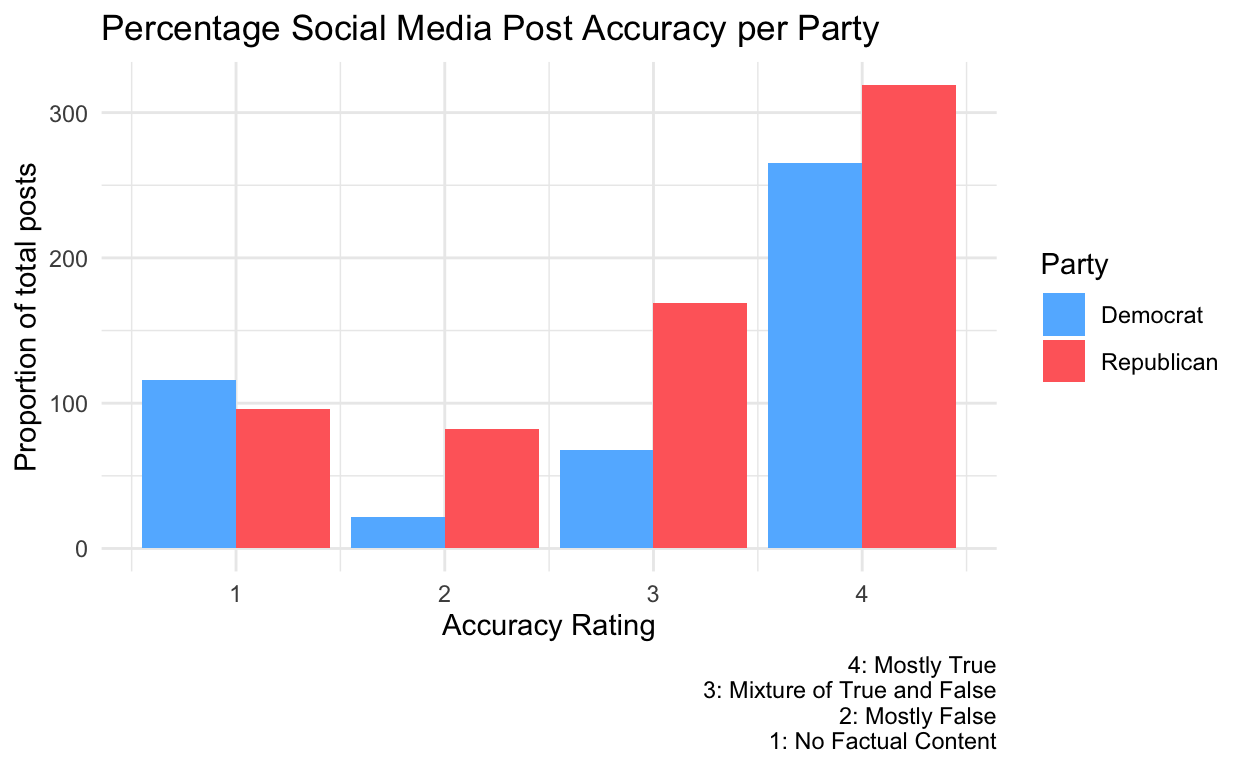
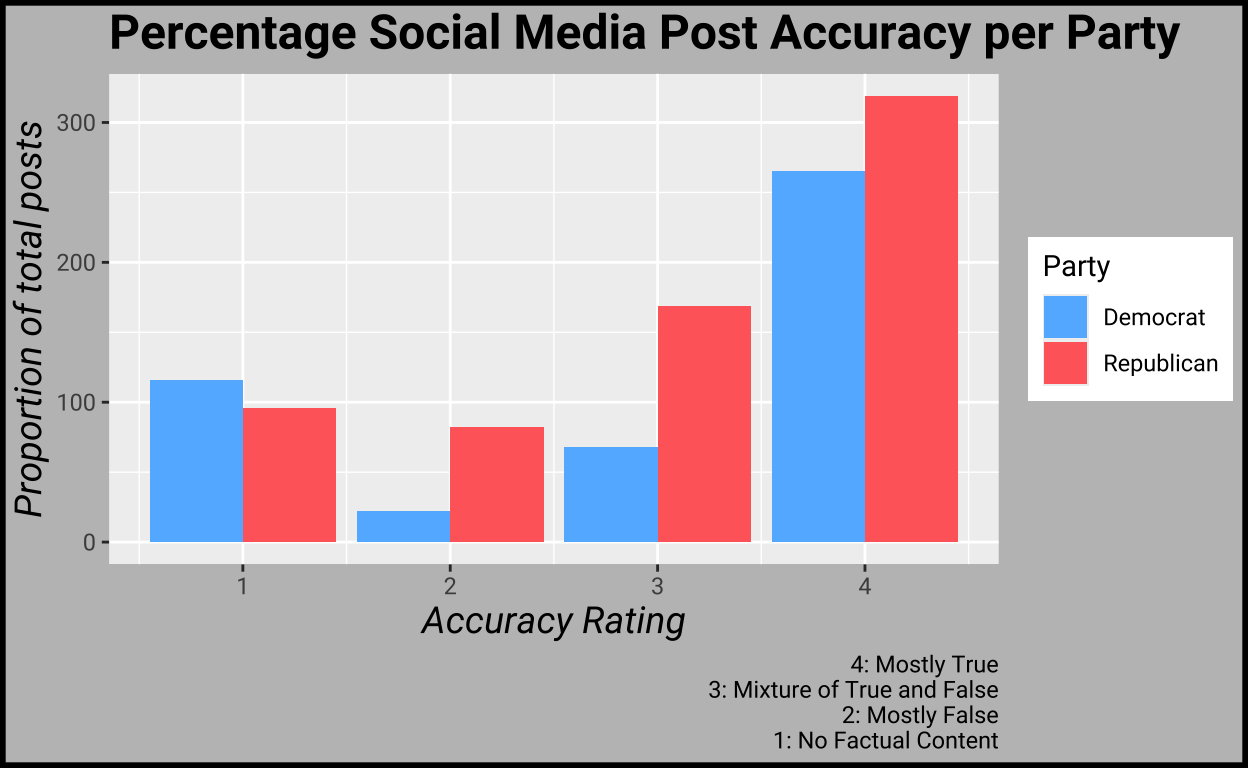
12/11 Final Draft

diff --git a/index.html b/index.html
@@ -88,34 +88,34 @@ code span.wa { color: #5e5e5e; font-style: italic; } /* Warning */
 
 
   <!--radix_placeholder_meta_tags-->
-  <title>PS270 Final Project</title>
+  <title>Misinformation in Social Media in the context of Political Affiliation</title>
 
-  <meta property="description" itemprop="description" content="My final project"/>
+  <meta property="description" itemprop="description" content="PS270 Final Project"/>
 
 
   <meta name="article:author" content="Natalie Thuente"/>
 
   <!--  https://developers.facebook.com/docs/sharing/webmasters#markup -->
-  <meta property="og:title" content="PS270 Final Project"/>
+  <meta property="og:title" content="Misinformation in Social Media in the context of Political Affiliation"/>
   <meta property="og:type" content="article"/>
-  <meta property="og:description" content="My final project"/>
+  <meta property="og:description" content="PS270 Final Project"/>
   <meta property="og:locale" content="en_US"/>
 
   <!--  https://dev.twitter.com/cards/types/summary -->
   <meta property="twitter:card" content="summary"/>
-  <meta property="twitter:title" content="PS270 Final Project"/>
-  <meta property="twitter:description" content="My final project"/>
+  <meta property="twitter:title" content="Misinformation in Social Media in the context of Political Affiliation"/>
+  <meta property="twitter:description" content="PS270 Final Project"/>
 
   <!--/radix_placeholder_meta_tags-->
   <!--radix_placeholder_rmarkdown_metadata-->
 
   <script type="text/json" id="radix-rmarkdown-metadata">
-  {"type":"list","attributes":{"names":{"type":"character","attributes":{},"value":["title","author","description","output"]}},"value":[{"type":"character","attributes":{},"value":["PS270 Final Project"]},{"type":"list","attributes":{},"value":[{"type":"list","attributes":{"names":{"type":"character","attributes":{},"value":["name"]}},"value":[{"type":"character","attributes":{},"value":["Natalie Thuente"]}]}]},{"type":"character","attributes":{},"value":["My final project"]},{"type":"list","attributes":{"names":{"type":"character","attributes":{},"value":["distill::distill_article"]}},"value":[{"type":"list","attributes":{"names":{"type":"character","attributes":{},"value":["self_contained"]}},"value":[{"type":"logical","attributes":{},"value":[false]}]}]}]}
+  {"type":"list","attributes":{"names":{"type":"character","attributes":{},"value":["title","author","description","output"]}},"value":[{"type":"character","attributes":{},"value":["Misinformation in Social Media in the context of Political Affiliation"]},{"type":"list","attributes":{},"value":[{"type":"list","attributes":{"names":{"type":"character","attributes":{},"value":["name"]}},"value":[{"type":"character","attributes":{},"value":["Natalie Thuente"]}]}]},{"type":"character","attributes":{},"value":["PS270 Final Project"]},{"type":"list","attributes":{"names":{"type":"character","attributes":{},"value":["distill::distill_article"]}},"value":[{"type":"list","attributes":{"names":{"type":"character","attributes":{},"value":["self_contained"]}},"value":[{"type":"logical","attributes":{},"value":[false]}]}]}]}
   </script>
   <!--/radix_placeholder_rmarkdown_metadata-->
   
   <script type="text/json" id="radix-resource-manifest">
-  {"type":"character","attributes":{},"value":["facebook-fact-check.csv","index_files/anchor-4.2.2/anchor.min.js","index_files/bowser-1.9.3/bowser.min.js","index_files/distill-2.2.21/template.v2.js","index_files/figure-html5/unnamed-chunk-2-1.png","index_files/figure-html5/unnamed-chunk-3-1.png","index_files/figure-html5/unnamed-chunk-6-1.png","index_files/header-attrs-2.17/header-attrs.js","index_files/header-attrs-2.28/header-attrs.js","index_files/header-attrs-2.29/header-attrs.js","index_files/jquery-3.6.0/jquery-3.6.0.js","index_files/jquery-3.6.0/jquery-3.6.0.min.js","index_files/jquery-3.6.0/jquery-3.6.0.min.map","index_files/popper-2.6.0/popper.min.js","index_files/tippy-6.2.7/tippy-bundle.umd.min.js","index_files/tippy-6.2.7/tippy-light-border.css","index_files/tippy-6.2.7/tippy.css","index_files/tippy-6.2.7/tippy.umd.min.js","index_files/webcomponents-2.0.0/webcomponents.js"]}
+  {"type":"character","attributes":{},"value":["facebook-fact-check.csv","index_files/anchor-4.2.2/anchor.min.js","index_files/bowser-1.9.3/bowser.min.js","index_files/distill-2.2.21/template.v2.js","index_files/figure-html5/unnamed-chunk-2-1.png","index_files/figure-html5/unnamed-chunk-3-1.png","index_files/figure-html5/unnamed-chunk-6-1.png","index_files/figure-html5/unnamed-chunk-7-1.png","index_files/header-attrs-2.17/header-attrs.js","index_files/header-attrs-2.28/header-attrs.js","index_files/header-attrs-2.29/header-attrs.js","index_files/jquery-3.6.0/jquery-3.6.0.js","index_files/jquery-3.6.0/jquery-3.6.0.min.js","index_files/jquery-3.6.0/jquery-3.6.0.min.map","index_files/popper-2.6.0/popper.min.js","index_files/tippy-6.2.7/tippy-bundle.umd.min.js","index_files/tippy-6.2.7/tippy-light-border.css","index_files/tippy-6.2.7/tippy.css","index_files/tippy-6.2.7/tippy.umd.min.js","index_files/webcomponents-2.0.0/webcomponents.js"]}
   </script>
   <!--radix_placeholder_navigation_in_header-->
   <!--/radix_placeholder_navigation_in_header-->
@@ -1518,7 +1518,7 @@ code span.wa { color: #5e5e5e; font-style: italic; } /* Warning */
 <!--radix_placeholder_front_matter-->
 
 <script id="distill-front-matter" type="text/json">
-{"title":"PS270 Final Project","description":"My final project","authors":[{"author":"Natalie Thuente","authorURL":"#","affiliation":"&nbsp;","affiliationURL":"#","orcidID":""}]}
+{"title":"Misinformation in Social Media in the context of Political Affiliation","description":"PS270 Final Project","authors":[{"author":"Natalie Thuente","authorURL":"#","affiliation":"&nbsp;","affiliationURL":"#","orcidID":""}]}
 </script>
 
 <!--/radix_placeholder_front_matter-->
@@ -1528,11 +1528,11 @@ code span.wa { color: #5e5e5e; font-style: italic; } /* Warning */
 <!--/radix_placeholder_site_before_body-->
 
 <div class="d-title">
-<h1>PS270 Final Project</h1>
+<h1>Misinformation in Social Media in the context of Political Affiliation</h1>
 
 <!--radix_placeholder_categories-->
 <!--/radix_placeholder_categories-->
-<p>My final project</p>
+<p>PS270 Final Project</p>
 </div>
 
 <div class="d-byline">
@@ -1545,42 +1545,25 @@ code span.wa { color: #5e5e5e; font-style: italic; } /* Warning */
 <div class="d-article">
 <h1 id="introduction">Introduction</h1>
 <p>Research Question: Is one political party more likely to post inaccurate or misleading data on social media than the other? This research is studying the relationship between political partisanship (Republican or Democrat) and accuracy of social media posts, this is to determine if there is a causal relationship between an individual’s political affiliation and likelihood to spread inaccurate information. The data supporting this research has been obtained from: “<a href="https://www.kaggle.com/datasets/mrisdal/fact-checking-facebook-politics-pages/data" class="uri">https://www.kaggle.com/datasets/mrisdal/fact-checking-facebook-politics-pages/data</a>”.</p>
-<p>My hypothesis is that the Republican party is more likely to curate false social media content. My behavioral explanation of this is rooted in recent political events and the overall tone of hostility since the 2020 election. The Republican party has been outspokenly discontent with the results of the 2020 election, contesting the validity of the election, ultimately culminating in the January 6th insurrection. These feelings of hostility have been expressed through many social media posts, and I believe that these extreme views and an abundance of emotional content could explain a lack of accuracy in Republican social media posts.</p>
+<p>My hypothesis is that the Republican party is more likely to curate false social media content. My behavioral explanation of this is rooted in recent political events and the overall tone of hostility since the 2020 election. The Republican party has been outspokenly discontent with the results of the 2020 election, contesting the validity of the election, ultimately culminating in the January 6th insurrection. These feelings of hostility have been expressed through many social media posts, and I believe that these extreme views and an abundance of emotional content could explain a lack of accuracy in Republican social media posts. This data is important as it could inform social media companies in trends of misinformation across platforms, and they would be more aware when creating policies to filter data and maintain truthful content.</p>
 <div class="layout-chunk" data-layout="l-body">
 <div class="sourceCode">
 <pre class="sourceCode r"><code class="sourceCode r"><span><span class='kw'><a href='https://rdrr.io/r/base/library.html'>library</a></span><span class='op'>(</span><span class='va'><a href='https://tidyverse.tidyverse.org'>tidyverse</a></span><span class='op'>)</span></span>
-<span><span class='va'>facebook</span> <span class='op'>&lt;-</span> <span class='fu'><a href='https://readr.tidyverse.org/reference/read_delim.html'>read_csv</a></span><span class='op'>(</span><span class='st'>"facebook-fact-check.csv"</span><span class='op'>)</span></span>
-<span><span class='va'>facebook</span></span></code></pre>
+<span><span class='kw'><a href='https://rdrr.io/r/base/library.html'>library</a></span><span class='op'>(</span><span class='va'><a href='https://ggplot2.tidyverse.org'>ggplot2</a></span><span class='op'>)</span></span>
+<span><span class='kw'><a href='https://rdrr.io/r/base/library.html'>library</a></span><span class='op'>(</span><span class='va'><a href='https://github.com/yixuan/showtext'>showtext</a></span><span class='op'>)</span></span>
+<span><span class='va'>facebook</span> <span class='op'>&lt;-</span> <span class='fu'><a href='https://readr.tidyverse.org/reference/read_delim.html'>read_csv</a></span><span class='op'>(</span><span class='st'>"facebook-fact-check.csv"</span><span class='op'>)</span></span></code></pre>
 </div>
-<pre><code># A tibble: 2,282 × 12
-   account_id post_id Category   Page      `Post URL` `Date Published`
-        &lt;dbl&gt;   &lt;dbl&gt; &lt;chr&gt;      &lt;chr&gt;     &lt;chr&gt;      &lt;date&gt;          
- 1    1.84e14 1.04e15 mainstream ABC News… https://w… 2016-09-19      
- 2    1.84e14 1.04e15 mainstream ABC News… https://w… 2016-09-19      
- 3    1.84e14 1.04e15 mainstream ABC News… https://w… 2016-09-19      
- 4    1.84e14 1.04e15 mainstream ABC News… https://w… 2016-09-19      
- 5    1.84e14 1.04e15 mainstream ABC News… https://w… 2016-09-19      
- 6    1.84e14 1.04e15 mainstream ABC News… https://w… 2016-09-19      
- 7    1.84e14 1.04e15 mainstream ABC News… https://w… 2016-09-19      
- 8    1.84e14 1.04e15 mainstream ABC News… https://w… 2016-09-19      
- 9    1.84e14 1.04e15 mainstream ABC News… https://w… 2016-09-19      
-10    1.84e14 1.04e15 mainstream ABC News… https://w… 2016-09-19      
-# ℹ 2,272 more rows
-# ℹ 6 more variables: `Post Type` &lt;chr&gt;, Rating &lt;chr&gt;, Debate &lt;chr&gt;,
-#   share_count &lt;dbl&gt;, reaction_count &lt;dbl&gt;, comment_count &lt;dbl&gt;</code></pre>
 </div>
-<h1 id="data-describe-data-source-key-dependent-and-independent-variables-how-they-are-measured-plot-summarizing-dependent-variable">Data: describe data source, key dependent and independent variables, how they are measured, plot summarizing dependent variable</h1>
+<h1 id="data">Data</h1>
 <p>My research was a cross-sectional design with data from: “<a href="https://www.kaggle.com/datasets/mrisdal/fact-checking-facebook-politics-pages/data" class="uri">https://www.kaggle.com/datasets/mrisdal/fact-checking-facebook-politics-pages/data</a>”. The explanatory variable of interest is the partisan affiliation of the social media post, which was determined by the partisan identity of the account creating the post. The response variable was the accuracy of post. This was measured by raters at Buzzfeed. Each rater was given a rotating selection of accounts from different parties on each day, with each rater being given the same criteria for how to review posts.</p>
 <p>Truth Categories:</p>
-<ol start="4" type="1">
-<li><p>Mostly True: The post and any related link or image are based on factual information and portray it accurately. This lets them interpret the event/info in their own way, so long as they do not misrepresent events, numbers, quotes, reactions, etc., or make information up. This rating does not allow for unsupported speculation or claims.</p></li>
-<li><p>Mixture of True and False: Some elements of the information are factually accurate, but some elements or claims are not. This rating should be used when speculation or unfounded claims are mixed with real events, numbers, quotes, etc., or when the headline of the link being shared makes a false claim but the text of the story is largely accurate. It should also only be used when the unsupported or false information is roughly equal to the accurate information in the post or link. Finally, use this rating for news articles that are based on unconfirmed information.</p></li>
-<li><p>Mostly False: Most or all of the information in the post or in the link being shared is inaccurate. This should also be used when the central claim being made is false.</p></li>
-<li><p>No Factual Content: This rating is used for posts that are pure opinion, comics, satire, or any other posts that do not make a factual claim. This is also the category to use for posts that are of the “Like this if you think…” variety.</p></li>
-</ol>
+<p>4: Mostly True: The post and any related link or image are based on factual information and portray it accurately. This lets them interpret the event/info in their own way, so long as they do not misrepresent events, numbers, quotes, reactions, etc., or make information up. This rating does not allow for unsupported speculation or claims.</p>
+<p>3: Mixture of True and False: Some elements of the information are factually accurate, but some elements or claims are not. This rating should be used when speculation or unfounded claims are mixed with real events, numbers, quotes, etc., or when the headline of the link being shared makes a false claim but the text of the story is largely accurate. It should also only be used when the unsupported or false information is roughly equal to the accurate information in the post or link. Finally, use this rating for news articles that are based on unconfirmed information.</p>
+<p>2: Mostly False: Most or all of the information in the post or in the link being shared is inaccurate. This should also be used when the central claim being made is false.</p>
+<p>1: No Factual Content: This rating is used for posts that are pure opinion, comics, satire, or any other posts that do not make a factual claim. This is also the category to use for posts that are of the “Like this if you think…” variety.</p>
 <p>To disprove my hypothesis, the percentage of inaccurate posts created by Democratic accounts would have to be greater than that of Republican accounts</p>
-<p>This bar plot shows the relationship between Party and accuracy of social media posts. For each accuracy category (4 being the most accurate, 1 being the least), the plot displays the percentage of total posts that fall under this category for each party.</p>
-<p>Count the percentage of total posts that fall under each accuracy classification for each party.</p>
+<p>This bar plot shows the relationship between party and accuracy of social media posts. For each accuracy category (4 being the most accurate, 1 being the least), the plot displays the percentage of total posts that fall under this category for each party.</p>
+<p>Creating a table with the distribution of total posts that fall under each accuracy classification for each party:</p>
 <div class="layout-chunk" data-layout="l-body">
 <div class="sourceCode">
 <pre class="sourceCode r"><code class="sourceCode r"><span><span class='va'>parties</span> <span class='op'>&lt;-</span> <span class='va'>facebook</span> <span class='op'>|&gt;</span></span>
@@ -1594,25 +1577,51 @@ code span.wa { color: #5e5e5e; font-style: italic; } /* Warning */
 <span><span class='va'>party_accuracy</span> <span class='op'>&lt;-</span> <span class='va'>parties</span> <span class='op'>|&gt;</span></span>
 <span>  <span class='fu'><a href='https://dplyr.tidyverse.org/reference/group_by.html'>group_by</a></span><span class='op'>(</span><span class='va'>Party</span>, <span class='va'>accuracy_rating</span><span class='op'>)</span>  <span class='op'>|&gt;</span></span>
 <span>  <span class='fu'><a href='https://dplyr.tidyverse.org/reference/summarise.html'>summarize</a></span><span class='op'>(</span>n <span class='op'>=</span> <span class='fu'><a href='https://dplyr.tidyverse.org/reference/context.html'>n</a></span><span class='op'>(</span><span class='op'>)</span><span class='op'>)</span> <span class='op'>|&gt;</span> </span>
-<span>  <span class='fu'><a href='https://dplyr.tidyverse.org/reference/mutate.html'>mutate</a></span><span class='op'>(</span>p <span class='op'>=</span> <span class='va'>n</span> <span class='op'>/</span> <span class='fu'><a href='https://rdrr.io/r/base/sum.html'>sum</a></span><span class='op'>(</span><span class='va'>n</span><span class='op'>)</span><span class='op'>)</span></span>
+<span>  <span class='fu'><a href='https://dplyr.tidyverse.org/reference/mutate.html'>mutate</a></span><span class='op'>(</span>p <span class='op'>=</span> <span class='va'>n</span> <span class='op'>/</span> <span class='fu'><a href='https://rdrr.io/r/base/sum.html'>sum</a></span><span class='op'>(</span><span class='va'>n</span><span class='op'>)</span><span class='op'>)</span> </span>
+<span><span class='va'>party_accuracy_table</span> <span class='op'>&lt;-</span> <span class='va'>party_accuracy</span> <span class='op'>|&gt;</span></span>
+<span>  <span class='fu'><a href='https://dplyr.tidyverse.org/reference/select.html'>select</a></span><span class='op'>(</span><span class='va'>p</span>, <span class='va'>accuracy_rating</span><span class='op'>)</span> <span class='op'>|&gt;</span></span>
+<span>  <span class='fu'><a href='https://tidyr.tidyverse.org/reference/pivot_wider.html'>pivot_wider</a></span><span class='op'>(</span>names_from <span class='op'>=</span> <span class='va'>accuracy_rating</span>, values_from <span class='op'>=</span> <span class='va'>p</span><span class='op'>)</span></span>
 <span>  <span class='co'># mutate(n = if_else(Party == "Democrat", n/471, n/666))</span></span>
-<span><span class='va'>party_accuracy</span></span></code></pre>
+<span><span class='fu'>knitr</span><span class='fu'>::</span><span class='fu'><a href='https://rdrr.io/pkg/knitr/man/kable.html'>kable</a></span><span class='op'>(</span><span class='va'>party_accuracy_table</span>, digits <span class='op'>=</span> <span class='fl'>2</span><span class='op'>)</span></span></code></pre>
 </div>
-<pre><code># A tibble: 8 × 4
-# Groups:   Party [2]
-  Party      accuracy_rating     n      p
-  &lt;chr&gt;                &lt;dbl&gt; &lt;int&gt;  &lt;dbl&gt;
-1 Democrat                 1   116 0.246 
-2 Democrat                 2    22 0.0467
-3 Democrat                 3    68 0.144 
-4 Democrat                 4   265 0.563 
-5 Republican               1    96 0.144 
-6 Republican               2    82 0.123 
-7 Republican               3   169 0.254 
-8 Republican               4   319 0.479 </code></pre>
+<table>
+<thead>
+<tr class="header">
+<th style="text-align: left;">Party</th>
+<th style="text-align: right;">1</th>
+<th style="text-align: right;">2</th>
+<th style="text-align: right;">3</th>
+<th style="text-align: right;">4</th>
+</tr>
+</thead>
+<tbody>
+<tr class="odd">
+<td style="text-align: left;">Democrat</td>
+<td style="text-align: right;">0.25</td>
+<td style="text-align: right;">0.05</td>
+<td style="text-align: right;">0.14</td>
+<td style="text-align: right;">0.56</td>
+</tr>
+<tr class="even">
+<td style="text-align: left;">Republican</td>
+<td style="text-align: right;">0.14</td>
+<td style="text-align: right;">0.12</td>
+<td style="text-align: right;">0.25</td>
+<td style="text-align: right;">0.48</td>
+</tr>
+</tbody>
+</table>
 </div>
-<p>Now that the data is organized by party and accuracy rating, this is a bar graph comparing the results.</p>
+<p>Now that the data is organized by party and accuracy rating, this visualization can be used to compare the results.</p>
+<p>Creating a barplot with the spread of accuracy ratings for each party:</p>
 <div class="layout-chunk" data-layout="l-body">
+<div class="sourceCode">
+<pre class="sourceCode r"><code class="sourceCode r"><span><span class='fu'><a href='https://rdrr.io/pkg/showtext/man/showtext_auto.html'>showtext_auto</a></span><span class='op'>(</span><span class='op'>)</span></span>
+<span><span class='fu'><a href='https://rdrr.io/pkg/sysfonts/man/font_add_google.html'>font_add_google</a></span><span class='op'>(</span><span class='st'>"Roboto"</span>, <span class='st'>"roboto"</span><span class='op'>)</span></span>
+<span><span class='fu'><a href='https://rdrr.io/pkg/sysfonts/man/font_families.html'>font_families</a></span><span class='op'>(</span><span class='op'>)</span></span></code></pre>
+</div>
+<pre><code>[1] &quot;sans&quot;         &quot;serif&quot;        &quot;mono&quot;         &quot;wqy-microhei&quot;
+[5] &quot;roboto&quot;      </code></pre>
 <div class="sourceCode">
 <pre class="sourceCode r"><code class="sourceCode r"><span><span class='va'>accuracy_plot</span> <span class='op'>&lt;-</span> <span class='va'>party_accuracy</span> <span class='op'>|&gt;</span></span>
 <span>  <span class='fu'><a href='https://ggplot2.tidyverse.org/reference/ggplot.html'>ggplot</a></span><span class='op'>(</span><span class='fu'><a href='https://ggplot2.tidyverse.org/reference/aes.html'>aes</a></span><span class='op'>(</span>x <span class='op'>=</span> <span class='va'>accuracy_rating</span>, y <span class='op'>=</span> <span class='va'>n</span><span class='op'>)</span><span class='op'>)</span> <span class='op'>+</span></span>
@@ -1625,20 +1634,26 @@ code span.wa { color: #5e5e5e; font-style: italic; } /* Warning */
 <span><span class='st'>       3: Mixture of True and False</span></span>
 <span><span class='st'>       2: Mostly False</span></span>
 <span><span class='st'>       1: No Factual Content"</span><span class='op'>)</span> <span class='op'>+</span></span>
-<span>  <span class='fu'><a href='https://ggplot2.tidyverse.org/reference/ggtheme.html'>theme_minimal</a></span><span class='op'>(</span><span class='op'>)</span></span>
+<span>  <span class='fu'><a href='https://ggplot2.tidyverse.org/reference/theme.html'>theme</a></span><span class='op'>(</span></span>
+<span>    text <span class='op'>=</span> <span class='fu'><a href='https://ggplot2.tidyverse.org/reference/element.html'>element_text</a></span><span class='op'>(</span>family <span class='op'>=</span> <span class='st'>"roboto"</span><span class='op'>)</span>,</span>
+<span>    plot.title <span class='op'>=</span> <span class='fu'><a href='https://ggplot2.tidyverse.org/reference/element.html'>element_text</a></span><span class='op'>(</span>size <span class='op'>=</span> <span class='fl'>18</span>, face <span class='op'>=</span> <span class='st'>"bold"</span><span class='op'>)</span>, </span>
+<span>    axis.title.x <span class='op'>=</span> <span class='fu'><a href='https://ggplot2.tidyverse.org/reference/element.html'>element_text</a></span><span class='op'>(</span>size <span class='op'>=</span> <span class='fl'>14</span>, face <span class='op'>=</span> <span class='st'>"italic"</span><span class='op'>)</span>,  </span>
+<span>    axis.title.y <span class='op'>=</span> <span class='fu'><a href='https://ggplot2.tidyverse.org/reference/element.html'>element_text</a></span><span class='op'>(</span>size <span class='op'>=</span> <span class='fl'>14</span>, face <span class='op'>=</span> <span class='st'>"italic"</span><span class='op'>)</span>,</span>
+<span>    plot.background <span class='op'>=</span> <span class='fu'><a href='https://ggplot2.tidyverse.org/reference/element.html'>element_rect</a></span><span class='op'>(</span>fill <span class='op'>=</span> <span class='st'>"grey75"</span>, color <span class='op'>=</span> <span class='st'>"black"</span>, size <span class='op'>=</span> <span class='fl'>2</span><span class='op'>)</span>,</span>
+<span>    panel.background <span class='op'>=</span> <span class='fu'><a href='https://ggplot2.tidyverse.org/reference/element.html'>element_rect</a></span><span class='op'>(</span>fill <span class='op'>=</span> <span class='st'>"grey94"</span>, color <span class='op'>=</span> <span class='cn'>NA</span><span class='op'>)</span><span class='op'>)</span> </span>
 <span><span class='va'>accuracy_plot</span></span></code></pre>
 </div>
 <p><img src="index_files/figure-html5/unnamed-chunk-3-1.png" width="624" /></p>
 </div>
-<h1 id="results-scatterplot-barplot-or-boxplot-with-regression-and-paragraph-summarizing-results">Results: scatterplot, barplot or boxplot with regression and paragraph summarizing results</h1>
-<p>To better visualize the results, I have added a linear regression of the data by creating a binary variable to represent Party. Because I have set the Democrat value to ‘1’ and the Republican value to ‘0’, a positive value would indicate higher average ratings for the Republican Party, and a negative value would indicate the opposite, higher average ratings for the Democratic Party.</p>
-<p>Table summarizing the Average Accuracy Rating for each Party.</p>
+<h1 id="results">Results</h1>
+<p>To better visualize the results, I have added a linear regression of the data by creating a binary variable to represent Party. Because I have set the Democrat value to ‘1’ and the Republican value to ‘0’, a positive value would indicate higher average ratings for the Republican party, and a negative value would indicate the opposite, higher average ratings for the Democratic party.</p>
+<p>Table summarizing the average accuracy rating for each party:</p>
 <div class="layout-chunk" data-layout="l-body">
 <div class="sourceCode">
 <pre class="sourceCode r"><code class="sourceCode r"><span><span class='va'>analysis</span> <span class='op'>&lt;-</span> <span class='va'>parties</span> <span class='op'>|&gt;</span></span>
 <span>  <span class='fu'><a href='https://dplyr.tidyverse.org/reference/group_by.html'>group_by</a></span><span class='op'>(</span><span class='va'>Party</span><span class='op'>)</span> <span class='op'>|&gt;</span></span>
 <span>    <span class='fu'><a href='https://dplyr.tidyverse.org/reference/summarise.html'>summarize</a></span><span class='op'>(</span><span class='st'>"Average Accuracy Rating"</span> <span class='op'>=</span> <span class='fu'><a href='https://rdrr.io/r/base/mean.html'>mean</a></span><span class='op'>(</span><span class='va'>accuracy_rating</span><span class='op'>)</span><span class='op'>)</span></span>
-<span><span class='fu'>knitr</span><span class='fu'>::</span><span class='fu'><a href='https://rdrr.io/pkg/knitr/man/kable.html'>kable</a></span><span class='op'>(</span><span class='va'>analysis</span><span class='op'>)</span></span></code></pre>
+<span><span class='fu'>knitr</span><span class='fu'>::</span><span class='fu'><a href='https://rdrr.io/pkg/knitr/man/kable.html'>kable</a></span><span class='op'>(</span><span class='va'>analysis</span>, digits <span class='op'>=</span> <span class='fl'>3</span><span class='op'>)</span></span></code></pre>
 </div>
 <table>
 <thead>
@@ -1650,21 +1665,20 @@ code span.wa { color: #5e5e5e; font-style: italic; } /* Warning */
 <tbody>
 <tr class="odd">
 <td style="text-align: left;">Democrat</td>
-<td style="text-align: right;">3.023355</td>
+<td style="text-align: right;">3.023</td>
 </tr>
 <tr class="even">
 <td style="text-align: left;">Republican</td>
-<td style="text-align: right;">3.067568</td>
+<td style="text-align: right;">3.068</td>
 </tr>
 </tbody>
 </table>
 </div>
 <p>Linear Regression analyzing the relationship between Partisan Affiliation and Accuracy of social media posts, holding all other variables constant.</p>
+<p>Creating the linear regression:</p>
 <div class="layout-chunk" data-layout="l-body">
 <div class="sourceCode">
-<pre class="sourceCode r"><code class="sourceCode r"><span><span class='va'>parties</span> <span class='op'>&lt;-</span> <span class='va'>parties</span> <span class='op'>|&gt;</span></span>
-<span>  <span class='fu'><a href='https://dplyr.tidyverse.org/reference/mutate.html'>mutate</a></span><span class='op'>(</span>PartyBinary <span class='op'>=</span> <span class='fu'><a href='https://dplyr.tidyverse.org/reference/if_else.html'>if_else</a></span><span class='op'>(</span><span class='va'>Party</span> <span class='op'>==</span> <span class='st'>"Republican"</span>, <span class='fl'>1</span>, <span class='fl'>0</span><span class='op'>)</span><span class='op'>)</span></span>
-<span><span class='va'>model</span> <span class='op'>&lt;-</span> <span class='fu'><a href='https://rdrr.io/r/stats/lm.html'>lm</a></span><span class='op'>(</span><span class='va'>accuracy_rating</span> <span class='op'>~</span> <span class='va'>Party</span>, data <span class='op'>=</span> <span class='va'>parties</span><span class='op'>)</span></span>
+<pre class="sourceCode r"><code class="sourceCode r"><span><span class='va'>model</span> <span class='op'>&lt;-</span> <span class='fu'><a href='https://rdrr.io/r/stats/lm.html'>lm</a></span><span class='op'>(</span><span class='va'>accuracy_rating</span> <span class='op'>~</span> <span class='va'>Party</span>, data <span class='op'>=</span> <span class='va'>parties</span><span class='op'>)</span></span>
 <span><span class='fu'><a href='https://rdrr.io/r/base/summary.html'>summary</a></span><span class='op'>(</span><span class='va'>model</span><span class='op'>)</span></span></code></pre>
 </div>
 <pre><code>
@@ -1686,23 +1700,52 @@ Residual standard error: 1.162 on 1135 degrees of freedom
 Multiple R-squared:  0.0003517, Adjusted R-squared:  -0.000529 
 F-statistic: 0.3994 on 1 and 1135 DF,  p-value: 0.5275</code></pre>
 </div>
-<p>The results of the linear regression, specifically the Intercept, indicate the average accuracy rating for the Democratic party is 3.023, as the Democratic party was assigned the value ‘0’. The PartyBinary coefficient of 0.04421 indicates posts from the Republican party had a higher Average Social Media Accuracy Ranking than posts from the Democratic party.</p>
-<p>Observing the resulting p-value of 0.5275, in the context of <span class="math inline">\(\alpha\)</span> value of 0.05, we are unable to reject the null hypothesis and determine a causal relationship between Party Affiliation and Social Media post Accuracy, finding the Party Affiliation to be not statistically significant in predicting Social Media post Accuracy.</p>
+<p>Creating a visualization of the values returned from our regression:</p>
+<div class="layout-chunk" data-layout="l-body">
+<div class="sourceCode">
+<pre class="sourceCode r"><code class="sourceCode r"><span><span class='va'>regression</span> <span class='op'>&lt;-</span> <span class='fu'>broom</span><span class='fu'>::</span><span class='fu'><a href='https://generics.r-lib.org/reference/tidy.html'>tidy</a></span><span class='op'>(</span><span class='va'>model</span><span class='op'>)</span></span>
+<span><span class='fu'><a href='https://ggplot2.tidyverse.org/reference/ggplot.html'>ggplot</a></span><span class='op'>(</span><span class='va'>regression</span>, <span class='fu'><a href='https://ggplot2.tidyverse.org/reference/aes.html'>aes</a></span><span class='op'>(</span>x <span class='op'>=</span> <span class='va'>term</span>, y <span class='op'>=</span> <span class='va'>estimate</span><span class='op'>)</span><span class='op'>)</span> <span class='op'>+</span></span>
+<span>  <span class='fu'><a href='https://ggplot2.tidyverse.org/reference/geom_point.html'>geom_point</a></span><span class='op'>(</span><span class='op'>)</span> <span class='op'>+</span></span>
+<span>  <span class='fu'><a href='https://ggplot2.tidyverse.org/reference/geom_linerange.html'>geom_errorbar</a></span><span class='op'>(</span><span class='fu'><a href='https://ggplot2.tidyverse.org/reference/aes.html'>aes</a></span><span class='op'>(</span>ymin <span class='op'>=</span> <span class='va'>estimate</span> <span class='op'>-</span> <span class='fl'>1.96</span> <span class='op'>*</span> <span class='va'>std.error</span>, ymax <span class='op'>=</span> <span class='va'>estimate</span> <span class='op'>+</span> <span class='fl'>1.96</span> <span class='op'>*</span> <span class='va'>std.error</span><span class='op'>)</span>, width <span class='op'>=</span> <span class='fl'>0.2</span><span class='op'>)</span> <span class='op'>+</span></span>
+<span>  <span class='fu'><a href='https://ggplot2.tidyverse.org/reference/labs.html'>labs</a></span><span class='op'>(</span>title <span class='op'>=</span> <span class='st'>"Regression Coefficients"</span>, x <span class='op'>=</span> <span class='st'>"Predictors"</span>, y <span class='op'>=</span> <span class='st'>"Estimated Coefficients"</span><span class='op'>)</span> <span class='op'>+</span></span>
+<span>  <span class='fu'><a href='https://ggplot2.tidyverse.org/reference/theme.html'>theme</a></span><span class='op'>(</span></span>
+<span>    text <span class='op'>=</span> <span class='fu'><a href='https://ggplot2.tidyverse.org/reference/element.html'>element_text</a></span><span class='op'>(</span>family <span class='op'>=</span> <span class='st'>"roboto"</span><span class='op'>)</span>,</span>
+<span>    plot.title <span class='op'>=</span> <span class='fu'><a href='https://ggplot2.tidyverse.org/reference/element.html'>element_text</a></span><span class='op'>(</span>size <span class='op'>=</span> <span class='fl'>18</span>, face <span class='op'>=</span> <span class='st'>"bold"</span><span class='op'>)</span>, </span>
+<span>    axis.title.x <span class='op'>=</span> <span class='fu'><a href='https://ggplot2.tidyverse.org/reference/element.html'>element_text</a></span><span class='op'>(</span>size <span class='op'>=</span> <span class='fl'>14</span>, face <span class='op'>=</span> <span class='st'>"italic"</span><span class='op'>)</span>,  </span>
+<span>    axis.title.y <span class='op'>=</span> <span class='fu'><a href='https://ggplot2.tidyverse.org/reference/element.html'>element_text</a></span><span class='op'>(</span>size <span class='op'>=</span> <span class='fl'>14</span>, face <span class='op'>=</span> <span class='st'>"italic"</span><span class='op'>)</span>,</span>
+<span>    plot.background <span class='op'>=</span> <span class='fu'><a href='https://ggplot2.tidyverse.org/reference/element.html'>element_rect</a></span><span class='op'>(</span>fill <span class='op'>=</span> <span class='st'>"grey75"</span>, color <span class='op'>=</span> <span class='st'>"black"</span>, size <span class='op'>=</span> <span class='fl'>2</span><span class='op'>)</span>,</span>
+<span>    panel.background <span class='op'>=</span> <span class='fu'><a href='https://ggplot2.tidyverse.org/reference/element.html'>element_rect</a></span><span class='op'>(</span>fill <span class='op'>=</span> <span class='st'>"grey94"</span>, color <span class='op'>=</span> <span class='cn'>NA</span><span class='op'>)</span><span class='op'>)</span> </span></code></pre>
+</div>
+<p><img src="index_files/figure-html5/unnamed-chunk-6-1.png" width="624" /></p>
+</div>
+<p>The results of the linear regression, specifically the Intercept, indicate the average accuracy rating for the Democratic party is 3.023. The PartyRepublican coefficient of 0.04421 indicates posts from the Republican party had a higher Average Social Media Accuracy Ranking than posts from the Democratic party.</p>
+<p>Observing the resulting p-value of 0.5275, in the context of <span class="math inline">\(\alpha\)</span> value of 0.05, we are unable to reject the null hypothesis and determine a causal relationship between party affiliation and social media post accuracy, finding the party affiliation to be not statistically significant in predicting Social Media post Accuracy.</p>
+<p>Creating a Boxplot to visualize the spread of accuracy for each party:</p>
 <div class="layout-chunk" data-layout="l-body">
 <div class="sourceCode">
 <pre class="sourceCode r"><code class="sourceCode r"><span><span class='va'>box_plot</span> <span class='op'>&lt;-</span> <span class='va'>parties</span> <span class='op'>|&gt;</span></span>
 <span>  <span class='fu'><a href='https://ggplot2.tidyverse.org/reference/ggplot.html'>ggplot</a></span><span class='op'>(</span><span class='fu'><a href='https://ggplot2.tidyverse.org/reference/aes.html'>aes</a></span><span class='op'>(</span>x <span class='op'>=</span> <span class='va'>Party</span>, y <span class='op'>=</span> <span class='va'>accuracy_rating</span><span class='op'>)</span><span class='op'>)</span> <span class='op'>+</span></span>
 <span>  <span class='fu'><a href='https://ggplot2.tidyverse.org/reference/geom_boxplot.html'>geom_boxplot</a></span><span class='op'>(</span><span class='fu'><a href='https://ggplot2.tidyverse.org/reference/aes.html'>aes</a></span><span class='op'>(</span>fill <span class='op'>=</span> <span class='va'>Party</span><span class='op'>)</span><span class='op'>)</span> <span class='op'>+</span></span>
+<span>  <span class='fu'><a href='https://ggplot2.tidyverse.org/reference/stat_summary.html'>stat_summary</a></span><span class='op'>(</span>fun <span class='op'>=</span> <span class='va'>mean</span>, geom <span class='op'>=</span> <span class='st'>"point"</span>, shape <span class='op'>=</span> <span class='fl'>20</span>, size <span class='op'>=</span> <span class='fl'>3</span>, color <span class='op'>=</span> <span class='st'>"purple4"</span><span class='op'>)</span> <span class='op'>+</span></span>
 <span>  <span class='fu'><a href='https://ggplot2.tidyverse.org/reference/scale_manual.html'>scale_fill_manual</a></span><span class='op'>(</span>values <span class='op'>=</span> <span class='fu'><a href='https://rdrr.io/r/base/c.html'>c</a></span><span class='op'>(</span><span class='st'>"Democrat"</span> <span class='op'>=</span> <span class='st'>"steelblue1"</span>, <span class='st'>"Republican"</span> <span class='op'>=</span> <span class='st'>"indianred1"</span><span class='op'>)</span><span class='op'>)</span> <span class='op'>+</span></span>
 <span>  <span class='fu'><a href='https://ggplot2.tidyverse.org/reference/labs.html'>labs</a></span><span class='op'>(</span>title <span class='op'>=</span> <span class='st'>"Distribution of Accuracy Ratings by Party"</span>, x <span class='op'>=</span> <span class='st'>"Political Party"</span>, y <span class='op'>=</span> <span class='st'>"Accuracy Rating"</span><span class='op'>)</span> <span class='op'>+</span></span>
-<span>  <span class='fu'><a href='https://ggplot2.tidyverse.org/reference/ggtheme.html'>theme_minimal</a></span><span class='op'>(</span><span class='op'>)</span></span>
+<span>  <span class='fu'><a href='https://ggplot2.tidyverse.org/reference/theme.html'>theme</a></span><span class='op'>(</span></span>
+<span>    text <span class='op'>=</span> <span class='fu'><a href='https://ggplot2.tidyverse.org/reference/element.html'>element_text</a></span><span class='op'>(</span>family <span class='op'>=</span> <span class='st'>"roboto"</span><span class='op'>)</span>,</span>
+<span>    plot.title <span class='op'>=</span> <span class='fu'><a href='https://ggplot2.tidyverse.org/reference/element.html'>element_text</a></span><span class='op'>(</span>size <span class='op'>=</span> <span class='fl'>18</span>, face <span class='op'>=</span> <span class='st'>"bold"</span><span class='op'>)</span>, </span>
+<span>    axis.title.x <span class='op'>=</span> <span class='fu'><a href='https://ggplot2.tidyverse.org/reference/element.html'>element_text</a></span><span class='op'>(</span>size <span class='op'>=</span> <span class='fl'>14</span>, face <span class='op'>=</span> <span class='st'>"italic"</span><span class='op'>)</span>,  </span>
+<span>    axis.title.y <span class='op'>=</span> <span class='fu'><a href='https://ggplot2.tidyverse.org/reference/element.html'>element_text</a></span><span class='op'>(</span>size <span class='op'>=</span> <span class='fl'>14</span>, face <span class='op'>=</span> <span class='st'>"italic"</span><span class='op'>)</span>,</span>
+<span>    plot.background <span class='op'>=</span> <span class='fu'><a href='https://ggplot2.tidyverse.org/reference/element.html'>element_rect</a></span><span class='op'>(</span>fill <span class='op'>=</span> <span class='st'>"grey75"</span>, color <span class='op'>=</span> <span class='st'>"black"</span>, size <span class='op'>=</span> <span class='fl'>2</span><span class='op'>)</span>,</span>
+<span>    panel.background <span class='op'>=</span> <span class='fu'><a href='https://ggplot2.tidyverse.org/reference/element.html'>element_rect</a></span><span class='op'>(</span>fill <span class='op'>=</span> <span class='st'>"grey94"</span>, color <span class='op'>=</span> <span class='cn'>NA</span><span class='op'>)</span><span class='op'>)</span> </span>
 <span><span class='va'>box_plot</span></span></code></pre>
 </div>
-<p><img src="index_files/figure-html5/unnamed-chunk-6-1.png" width="624" /></p>
+<p><img src="index_files/figure-html5/unnamed-chunk-7-1.png" width="624" /></p>
 </div>
+<p>This boxplot shows the distribution of post accuracy for both political parties. It shows the median post accuracy for each party, with the purple dot representing the averages between both parties. The similarity in averages supports the previous conclusion that I am unable to determine causation of political party on social media post accuracy.</p>
 <h1 id="conclusion">Conclusion</h1>
-<p>To answer my research question, I was incorrect and my hypothesis proven wrong.</p>
-<div class="sourceCode" id="cb4"><pre class="sourceCode r distill-force-highlighting-css"><code class="sourceCode r"></code></pre></div>
+<p>My research sought to explore whether partisan affiliation is associated with the accuracy of social media posts, my hypothesis was that Republican-affiliated posts would be less accurate. However, the results did not support this hypothesis. The linear regression revealed no statistically significant relationship between political party affiliation and social media post accuracy, with similar average accuracy ratings for both parties.</p>
+<p>While the data offers valuable insights, several limitations constrain the analysis. The dataset may not fully capture the breadth of social media activity, as it is a relatively small dataset, and only contains posts from one social media platform, Facebook. The rating was also done by workers at Buzzfeed, so the dataset may not account for potential biases in the rating process. Furthermore, the cross-sectional nature of the study limits the ability to infer causation.</p>
+<p>I would improve future research by incorporating a larger dataset with data from various social media platforms, accounting for the context or content of posts, and exploring the influence of specific current events, to better understand the relationship between political affiliation and misinformation on social media.</p>
+<div class="sourceCode" id="cb3"><pre class="sourceCode r distill-force-highlighting-css"><code class="sourceCode r"></code></pre></div>
 <!--radix_placeholder_article_footer-->
 <!--/radix_placeholder_article_footer-->
 </div>
